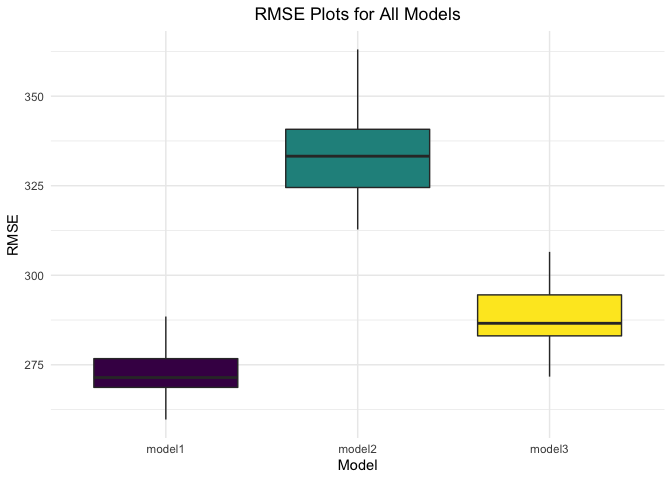
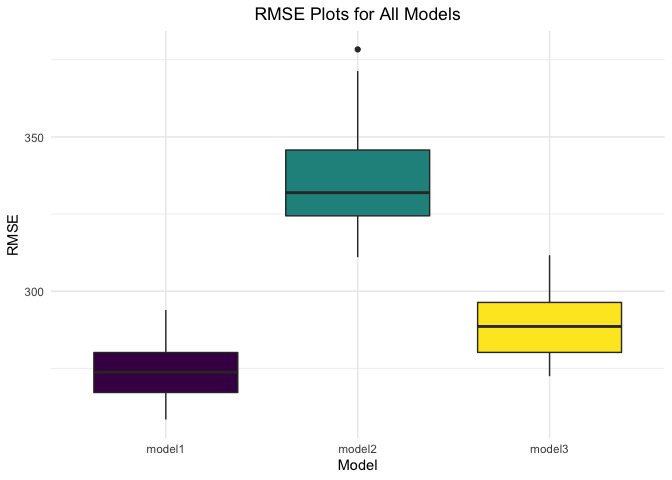
Knitting file

diff --git a/p8105_hw6_jdr2191.md b/p8105_hw6_jdr2191.md
@@ -3,26 +3,10 @@ p8105_hw6_jdr2191
 
 ``` r
 library(tidyverse)
-```
-
-    ## ── Attaching packages ─────────────────────────────────────── tidyverse 1.3.1 ──
-
-    ## ✓ ggplot2 3.3.5     ✓ purrr   0.3.4
-    ## ✓ tibble  3.1.5     ✓ dplyr   1.0.7
-    ## ✓ tidyr   1.1.4     ✓ stringr 1.4.0
-    ## ✓ readr   2.0.2     ✓ forcats 0.5.1
-
-    ## ── Conflicts ────────────────────────────────────────── tidyverse_conflicts() ──
-    ## x dplyr::filter() masks stats::filter()
-    ## x dplyr::lag()    masks stats::lag()
-
-``` r
 library(purrr)
 library(modelr)
 library(viridis)
 ```
-
-    ## Loading required package: viridisLite
 
 ## Problem 1
 
@@ -37,16 +21,6 @@ birthweight_df =
   mutate(malform = factor(malform, levels = c(0,1))) %>%
   mutate(mrace = factor(mrace, levels = c(1,2,3,4,8)))
 ```
-
-    ## Rows: 4342 Columns: 20
-
-    ## ── Column specification ────────────────────────────────────────────────────────
-    ## Delimiter: ","
-    ## dbl (20): babysex, bhead, blength, bwt, delwt, fincome, frace, gaweeks, malf...
-
-    ## 
-    ## ℹ Use `spec()` to retrieve the full column specification for this data.
-    ## ℹ Specify the column types or set `show_col_types = FALSE` to quiet this message.
 
 Propose a regression model for birthweight.
 
@@ -74,11 +48,12 @@ unique(pull(birthweight_df, pnumsga))
     the model.
 
 At my first pass at a model, I will include variables that I think are
-most appropriate.
+most appropriate based on my existing knowledge about birthweight
+predictors.
 
 ``` r
-model0 = lm(bwt ~ delwt + frace + mrace + smoken + gaweeks + ppbmi + momage + 
-                  wtgain + malform, data = birthweight_df)
+model0 = lm(bwt ~ delwt + frace + mrace + smoken + gaweeks + ppbmi + babysex + bhead +
+                  blength + parity + momage + wtgain + malform, data = birthweight_df)
 
 summary(model0)
 ```
@@ -86,40 +61,45 @@ summary(model0)
     ## 
     ## Call:
     ## lm(formula = bwt ~ delwt + frace + mrace + smoken + gaweeks + 
-    ##     ppbmi + momage + wtgain + malform, data = birthweight_df)
+    ##     ppbmi + babysex + bhead + blength + parity + momage + wtgain + 
+    ##     malform, data = birthweight_df)
     ## 
     ## Residuals:
     ##      Min       1Q   Median       3Q      Max 
-    ## -1716.13  -255.51     9.43   275.60  1511.74 
+    ## -1101.27  -183.53    -2.95   173.34  2341.80 
     ## 
     ## Coefficients:
-    ##              Estimate Std. Error t value Pr(>|t|)    
-    ## (Intercept)  505.2994    97.4790   5.184 2.27e-07 ***
-    ## delwt          7.7922     0.6311  12.348  < 2e-16 ***
-    ## frace2      -118.8169    71.3568  -1.665   0.0960 .  
-    ## frace3       -49.7858   107.2948  -0.464   0.6427    
-    ## frace4       -88.8815    69.1295  -1.286   0.1986    
-    ## frace8       -12.3111   114.6442  -0.107   0.9145    
-    ## mrace2      -170.1333    71.3047  -2.386   0.0171 *  
-    ## mrace3       -31.8849   111.3277  -0.286   0.7746    
-    ## mrace4       -30.4781    69.8267  -0.436   0.6625    
-    ## smoken       -11.8404     0.8975 -13.192  < 2e-16 ***
-    ## gaweeks       52.3785     2.1004  24.938  < 2e-16 ***
-    ## ppbmi        -21.9358     3.9733  -5.521 3.57e-08 ***
-    ## momage         1.0741     1.8111   0.593   0.5532    
-    ## wtgain         2.0375     0.8847   2.303   0.0213 *  
-    ## malform1     -30.6748   109.3574  -0.281   0.7791    
+    ##               Estimate Std. Error t value Pr(>|t|)    
+    ## (Intercept) -5685.3994   103.0595 -55.166  < 2e-16 ***
+    ## delwt           3.0661     0.4128   7.428 1.32e-13 ***
+    ## frace2          9.9554    46.1024   0.216 0.829044    
+    ## frace3         16.6613    69.2838   0.240 0.809971    
+    ## frace4        -51.6672    44.6414  -1.157 0.247180    
+    ## frace8         -0.9590    74.0242  -0.013 0.989664    
+    ## mrace2       -153.0202    46.0386  -3.324 0.000896 ***
+    ## mrace3        -96.8219    71.8887  -1.347 0.178105    
+    ## mrace4        -58.8798    45.1130  -1.305 0.191907    
+    ## smoken         -4.9007     0.5868  -8.351  < 2e-16 ***
+    ## gaweeks        11.5804     1.4654   7.903 3.44e-15 ***
+    ## ppbmi          -9.4649     2.5743  -3.677 0.000239 ***
+    ## babysex2       28.6284     8.4674   3.381 0.000729 ***
+    ## bhead         131.0029     3.4492  37.981  < 2e-16 ***
+    ## blength        74.9075     2.0200  37.082  < 2e-16 ***
+    ## parity         92.0419    40.4572   2.275 0.022952 *  
+    ## momage          0.9297     1.1733   0.792 0.428168    
+    ## wtgain          1.0510     0.5723   1.837 0.066346 .  
+    ## malform1        7.5425    70.6214   0.107 0.914951    
     ## ---
     ## Signif. codes:  0 '***' 0.001 '**' 0.01 '*' 0.05 '.' 0.1 ' ' 1
     ## 
-    ## Residual standard error: 422.1 on 4327 degrees of freedom
-    ## Multiple R-squared:  0.3228, Adjusted R-squared:  0.3206 
-    ## F-statistic: 147.3 on 14 and 4327 DF,  p-value: < 2.2e-16
+    ## Residual standard error: 272.5 on 4323 degrees of freedom
+    ## Multiple R-squared:  0.718,  Adjusted R-squared:  0.7168 
+    ## F-statistic: 611.4 on 18 and 4323 DF,  p-value: < 2.2e-16
 
-Based on these results, it looks like frace, momage and malform are not
-significant predictors of bwt. I will remove these variables from the
-next iteration of the model. I will also add additional variables that
-may be appropriate.
+Based on these results, it looks like frace, momage, wtgain and malform
+are not significant predictors of bwt (all have p-values \< 0.05). I
+will remove these variables from the next iteration of the model, and
+this iteration will be my proposed model for birthweight.
 
 ``` r
 model1 = lm(bwt ~ delwt + mrace + smoken + gaweeks + ppbmi + babysex + bhead + blength + 
@@ -236,6 +216,7 @@ birthweight_df %>%
 ```
 
 ![](p8105_hw6_jdr2191_files/figure-gfm/model_diagnostics-1.png)<!-- -->
+
 Compare your model to two others:
 
 -   One using length at birth and gestational age as predictors (main
@@ -274,6 +255,9 @@ cv_df %>%
   )
 ```
 
+    ## Warning in predict.lm(model, data): prediction from a rank-deficient fit may be
+    ## misleading
+
 Look at output
 
 ``` r
@@ -297,6 +281,10 @@ cv_df2 %>%
 
 ![](p8105_hw6_jdr2191_files/figure-gfm/cv_investigation-1.png)<!-- -->
 
+As seen by the plot, the RMSE for my model (model1) is smaller than the
+RMSE for the other two models (model2 and model3), indicating that my
+model is a better fit for the data than these other models.
+
 ## Problem 2
 
 Importing weather dataset.
@@ -315,16 +303,6 @@ weather_df =
   select(name, id, everything())
 ```
 
-    ## Registered S3 method overwritten by 'hoardr':
-    ##   method           from
-    ##   print.cache_info httr
-
-    ## using cached file: ~/Library/Caches/R/noaa_ghcnd/USW00094728.dly
-
-    ## date created (size, mb): 2021-11-27 13:23:12 (7.614)
-
-    ## file min/max dates: 1869-01-01 / 2021-11-30
-
 Boostrapping weather dataset.
 
 ``` r
@@ -338,15 +316,7 @@ weather_df %>%
   unnest(results) %>%
   unnest(glance, names_repair = "universal") %>%
   select(strap, .id, models, r.squared, term, estimate)
-```
 
-    ## New names:
-    ## * statistic -> statistic...7
-    ## * p.value -> p.value...8
-    ## * statistic -> statistic...19
-    ## * p.value -> p.value...20
-
-``` r
 weather_df3 = 
   weather_df2 %>%
   mutate(term = if_else(term != "tmin", "Intercept", "tmin"))
@@ -403,7 +373,7 @@ sapply(weather_df5, function(x) quantile(x, probs = c(0.025, 0.975))) %>%
   knitr::kable()
 ```
 
-|       | r.squared |   logb0b1 |
-|:------|----------:|----------:|
-| 2.5%  | 0.8939555 | 0.0095708 |
-| 97.5% | 0.9273899 | 0.1343350 |
+|       | r.squared |  logb0b1 |
+|:------|----------:|---------:|
+| 2.5%  | 0.8940627 | 0.010528 |
+| 97.5% | 0.9271300 | 0.132867 |
